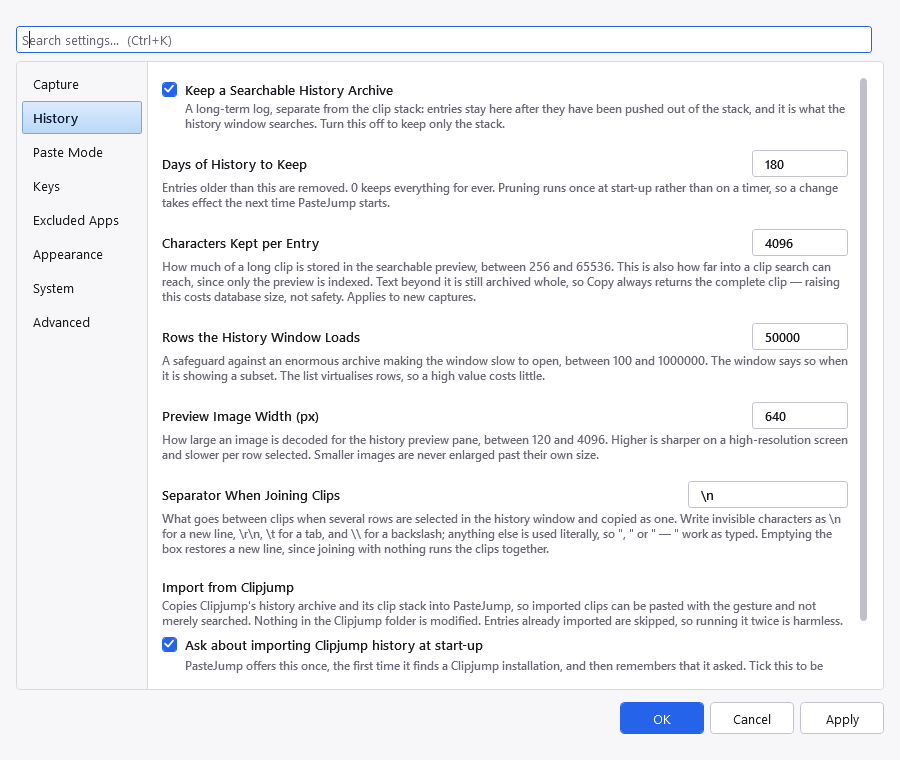
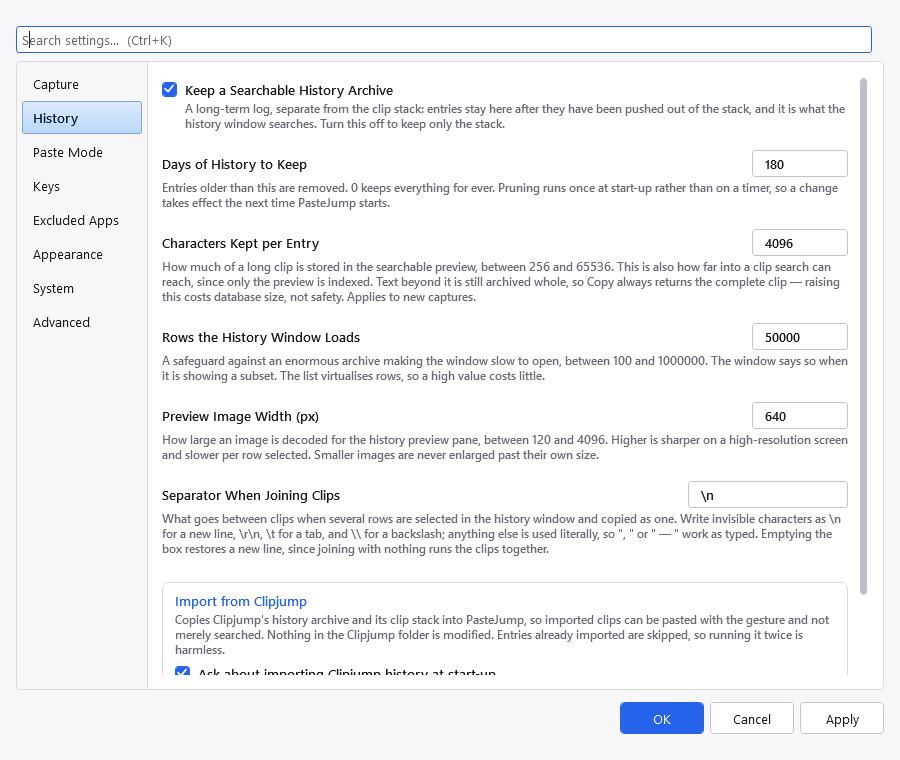
Draw a group of settings as a group
A bold heading with a margin above it was all that separated one group of settings
from the next, and it was reported as unreadable - which it is: a heading looks like a
label for the row beneath it, not like the start of a container, so a page with six
settings and two headings reads as eight peers. The new overlay switches made it
obvious, since seven check boxes in a row have nothing else to say where they stop.

Each group is now a panel: a one-pixel border, rounded corners, a slightly raised
surface, and its title inside it in the accent colour. Six groups across four tabs -
Import from Clipjump, During the Gesture, Paste Overlay, What the Overlay Shows, After
Each Copy, Where Data Is Kept.

Only where a tab holds MORE than one group. The settings at the top of such a page
stay outside a box and belong to the tab itself, which its header already names -
boxing everything would leave a page of nested rectangles with nothing outside them to
contrast against. The version line on the System tab stays outside for the same
reason: it describes the program, not a setting.

The three check boxes with no help line of their own were bunching together and
reading as one control with three boxes; they now carry the same spacing as the rest.

Checked in both themes, and the settings search still indexes every row - the tree
walk that finds them recurses, so nesting them one level deeper changes nothing.

Changed region(s): [[0.1556, 0.7566, 0.9644, 0.9079]]

diff --git a/src/PasteJump.App/Views/SettingsWindow.xaml b/src/PasteJump.App/Views/SettingsWindow.xaml
@@ -118,6 +118,35 @@
             <Setter Property="Margin" Value="0,10,0,0" />
         </Style>
 
+        <!--
+            A group of settings, drawn as a panel.
+
+            A bold heading with a 10px margin above it was all that separated one group from the next, and it was
+            reported as unreadable - which it was: a heading looks like a label for the row beneath it, not like the
+            start of a container, so a page of six settings and two headings reads as eight peers. A boxed group says
+            where it starts and where it stops.
+
+            Used only where a tab holds MORE than one group. The settings at the top of such a page stay unboxed and
+            belong to the tab itself - the tab header already names them, and boxing everything would leave a page of
+            nested rectangles with nothing outside them to contrast against.
+
+            The heading sits inside the box, so its own top margin is removed by SectionHeadingInGroup below.
+        -->
+        <Style x:Key="SettingGroup" TargetType="Border">
+            <Setter Property="BorderBrush" Value="{DynamicResource BorderBrush}" />
+            <Setter Property="BorderThickness" Value="1" />
+            <Setter Property="CornerRadius" Value="6" />
+            <Setter Property="Background" Value="{DynamicResource SurfaceRaisedBrush}" />
+            <Setter Property="Padding" Value="12,9,12,3" />
+            <Setter Property="Margin" Value="0,14,0,0" />
+        </Style>
+
+        <!-- The same heading, as a group's title: no margin above it, since the box supplies the space. -->
+        <Style x:Key="SectionHeadingInGroup" TargetType="TextBlock" BasedOn="{StaticResource SectionHeading}">
+            <Setter Property="Margin" Value="0,0,0,0" />
+            <Setter Property="Foreground" Value="{DynamicResource AccentBrush}" />
+        </Style>
+
         <!-- Tab pages scroll. Inline help roughly doubles the height of every setting, and a page that
              silently cuts off its last control is worse than one you have to scroll. -->
         <!--
@@ -398,7 +427,9 @@
                         <TextBlock Style="{StaticResource SettingHelp}"
                                    Text="What goes between clips when several rows are selected in the history window and copied as one. Write invisible characters as \n for a new line, \r\n, \t for a tab, and \\ for a backslash; anything else is used literally, so &quot;, &quot; or &quot; — &quot; work as typed. Emptying the box restores a new line, since joining with nothing runs the clips together." />
 
-                        <TextBlock Style="{StaticResource SectionHeading}" Text="Import from Clipjump" />
+                        <Border Style="{StaticResource SettingGroup}">
+                        <StackPanel>
+                        <TextBlock Style="{StaticResource SectionHeadingInGroup}" Text="Import from Clipjump" />
                         <TextBlock Style="{StaticResource SettingHelp}"
                                    Margin="0,3,0,8"
                                    Text="Copies Clipjump's history archive and its clip stack into PasteJump, so imported clips can be pasted with the gesture and not merely searched. Nothing in the Clipjump folder is modified. Entries already imported are skipped, so running it twice is harmless." />
@@ -422,6 +453,8 @@
                                 Margin="0,0,0,0"
                                 MinWidth="200"
                                 ToolTip="Finds an existing Clipjump installation, and lets you browse to one if the guess is wrong." />
+                        </StackPanel>
+                        </Border>
 
                     </StackPanel>
                 </ScrollViewer>
@@ -488,7 +521,9 @@
                         <TextBlock Style="{StaticResource SettingHelp}"
                                    Text="A system-wide shortcut that opens the clipboard history window, for example Ctrl+Shift+H. Leave it empty for none. It must include at least one of Ctrl, Alt, Shift or Win — a bare key would be taken away from every other program on the machine." />
 
-                        <TextBlock Style="{StaticResource SectionHeading}" Margin="0,0,0,0" Text="During the Gesture" />
+                        <Border Style="{StaticResource SettingGroup}">
+                        <StackPanel>
+                        <TextBlock Style="{StaticResource SectionHeadingInGroup}" Text="During the Gesture" />
 
                         <CheckBox x:Name="PreservePositionCheck" Content="Reopen on the Clip I Was Last On" />
                         <TextBlock Style="{StaticResource CheckHelp}"
@@ -517,6 +552,8 @@
                                   Content="Tell Me When Another Clipboard Manager Is Running" />
                         <TextBlock Style="{StaticResource CheckHelp}"
                                    Text="Shows a brief notification at start-up if a manager known to claim Ctrl+V is running. It is only a hint — PasteJump cannot tell whether the other program's paste shortcut is actually switched on, so it says what to check rather than claiming anything is broken." />
+                        </StackPanel>
+                        </Border>
 
                     </StackPanel>
                 </ScrollViewer>
@@ -708,7 +745,9 @@
                         <TextBlock Style="{StaticResource SettingHelp}"
                                    Text="Row spacing in the history window. Compact fits the most rows on screen; Roomy is the easiest to hit with a mouse. An open history window follows the change without reopening." />
 
-                        <TextBlock Style="{StaticResource SectionHeading}" Margin="0,0,0,0" Text="Paste Overlay" />
+                        <Border Style="{StaticResource SettingGroup}">
+                        <StackPanel>
+                        <TextBlock Style="{StaticResource SectionHeadingInGroup}" Text="Paste Overlay" />
 
                         <Grid Style="{StaticResource SettingRow}" Margin="0,0,0,0">
                             <Grid.ColumnDefinitions>
@@ -754,6 +793,8 @@
                         <CheckBox x:Name="ShowKeyHintCheck" Content="Show a Key Reminder Along the Bottom" />
                         <TextBlock Style="{StaticResource CheckHelp}"
                                    Text="One muted line naming the keys worth knowing when you have lost your place: A returns to the newest clip, X deletes, Esc cancels, and F1 opens the full list. Turn it off once the gesture is in your fingers." />
+                        </StackPanel>
+                        </Border>
 
                         <!--
                             What else the overlay says about a clip. All on by default, so nothing moves for anyone
@@ -764,7 +805,9 @@
                             releasing Ctrl will do, and hiding one would not tidy the overlay - it would arm a
                             deletion the user cannot see, which is the failure this overlay exists to prevent.
                         -->
-                        <TextBlock Style="{StaticResource SectionHeading}" Text="What the Overlay Shows" />
+                        <Border Style="{StaticResource SettingGroup}">
+                        <StackPanel>
+                        <TextBlock Style="{StaticResource SectionHeadingInGroup}" Text="What the Overlay Shows" />
                         <TextBlock Style="{StaticResource SettingHelp}"
                                    Margin="0,3,0,4"
                                    Text="The preview itself is always shown, as is anything that changes what releasing Ctrl will do — the POP and JOIN chips, the kind filter, and the Cancel or Delete banner. Everything below is description, and yours to switch off." />
@@ -785,13 +828,19 @@
                         <TextBlock Style="{StaticResource CheckHelp}"
                                    Text="The chip naming Original, Plain text and so on. Worth keeping if you use Z to cycle formats, since nothing else says which one is in force." />
 
-                        <CheckBox x:Name="ShowTagsCheck" Content="Tags" />
-                        <CheckBox x:Name="ShowSourceCheck" Content="Application It Was Copied From" />
-                        <CheckBox x:Name="ShowPinnedCheck" Content="The PINNED Marker" />
+                        <!-- The three with no help line of their own still need the rhythm of the rest, or they
+                             bunch together and read as one control with three boxes. -->
+                        <CheckBox x:Name="ShowTagsCheck" Content="Tags" Margin="0,7,0,0" />
+                        <CheckBox x:Name="ShowSourceCheck" Content="Application It Was Copied From" Margin="0,7,0,0" />
+                        <CheckBox x:Name="ShowPinnedCheck" Content="The PINNED Marker" Margin="0,7,0,0" />
                         <TextBlock Style="{StaticResource CheckHelp}"
                                    Text="Pinning itself is unaffected — this only hides the marker. A pinned clip still sorts first and still survives Delete All." />
+                        </StackPanel>
+                        </Border>
 
-                        <TextBlock Style="{StaticResource SectionHeading}" Margin="0,0,0,0" Text="After Each Copy" />
+                        <Border Style="{StaticResource SettingGroup}">
+                        <StackPanel>
+                        <TextBlock Style="{StaticResource SectionHeadingInGroup}" Text="After Each Copy" />
 
                         <CheckBox x:Name="ShowCopyNotificationCheck"
                                   Content="Show a Brief Notification" />
@@ -836,6 +885,8 @@
                         </Grid>
                         <TextBlock Style="{StaticResource CheckHelp}"
                                    Text="Between 20 and 2000 milliseconds. 150 is Clipjump's, and about as long as a tone on every copy can be before it becomes the thing you notice." />
+                        </StackPanel>
+                        </Border>
 
                     </StackPanel>
                 </ScrollViewer>
@@ -959,7 +1010,9 @@
                         <TextBlock Style="{StaticResource SettingHelp}"
                                    Text="The same, for a clip that holds a picture. The clip is written to a temporary .bmp first. Text wins when a clip carries both, which is common — copying a table from a browser gives you text and a bitmap at once." />
 
-                        <TextBlock Style="{StaticResource SectionHeading}" Margin="0,0,0,0" Text="Where Data Is Kept" />
+                        <Border Style="{StaticResource SettingGroup}">
+                        <StackPanel>
+                        <TextBlock Style="{StaticResource SectionHeadingInGroup}" Text="Where Data Is Kept" />
                         <TextBlock Style="{StaticResource SettingHelp}"
                                    Margin="0,3,0,6"
                                    Text="These two are independent. Changing either needs a restart: PasteJump copies the data across and leaves the old copy behind for you to delete once you are satisfied." />
@@ -1029,7 +1082,10 @@
                                    ToolTip="Open this folder in File Explorer" />
                         <TextBlock Style="{StaticResource SettingHelp}"
                                    Text="PasteJump.json, holding everything on these tabs. Keeping it beside the program is what lets a portable copy carry its own configuration." />
+                        </StackPanel>
+                        </Border>
 
+                        <!-- The version line belongs to the page rather than to any group, so it sits outside. -->
                         <TextBlock x:Name="VersionText"
                                    Style="{StaticResource SettingHelp}"
                                    Margin="0,8,0,0" />
